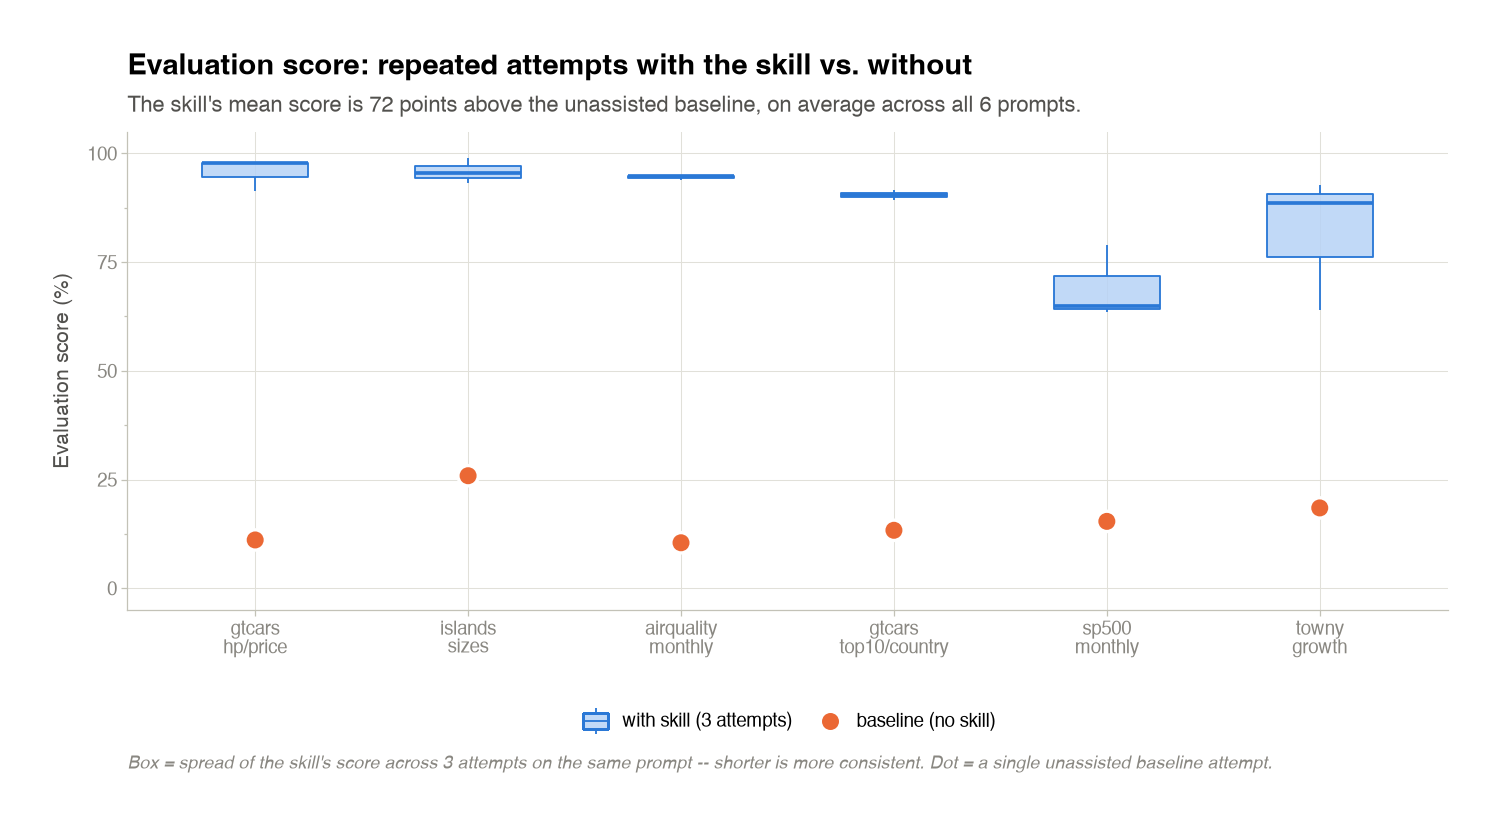
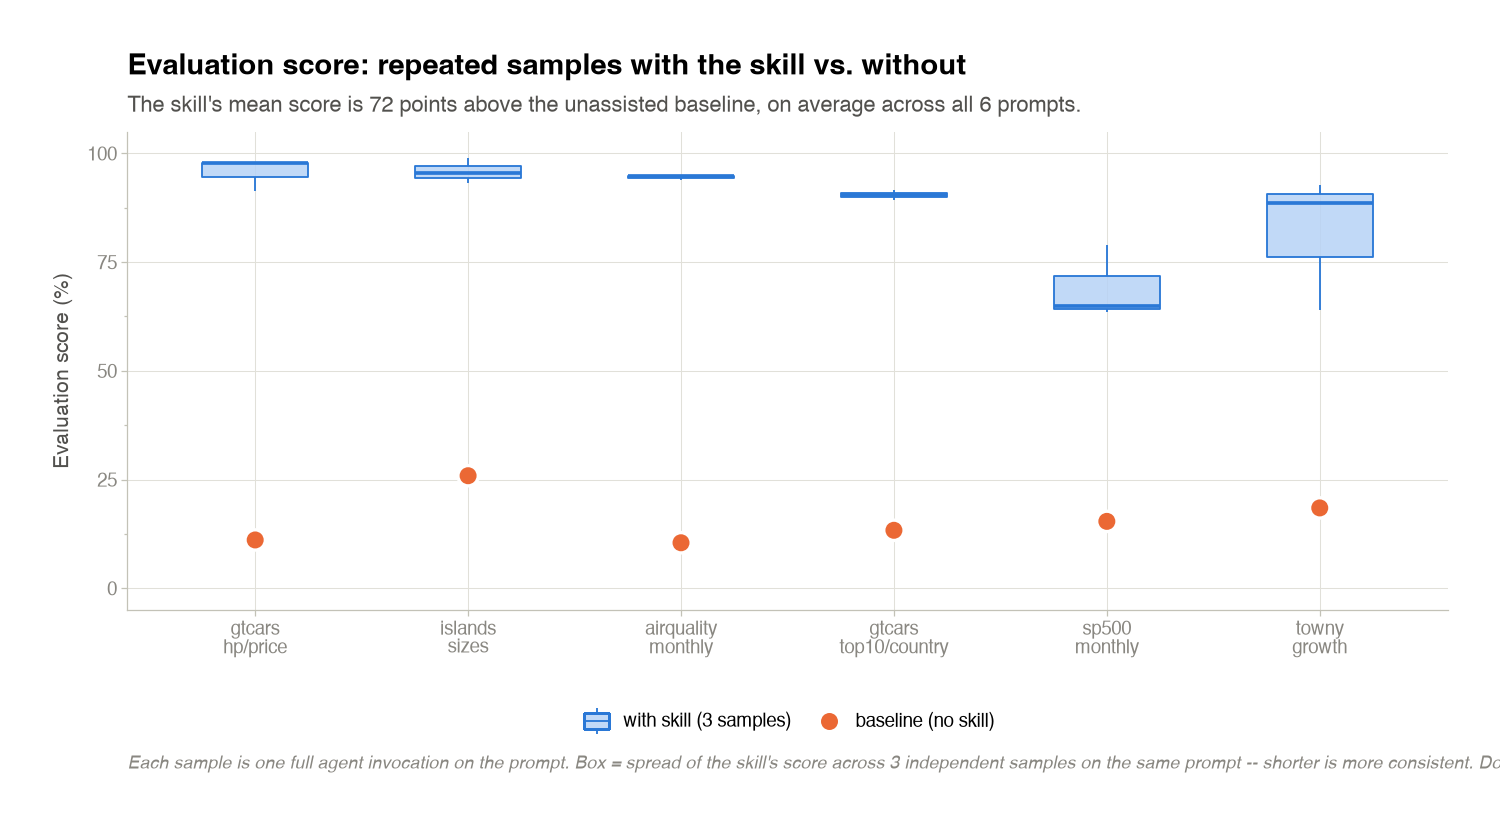
docs(assets): regenerate plots with 'samples' wording + drop stale callout
Re-runs the tracked eval-results/_plots.py (slice 6.5) against the
local eval-results-demo/{skill}/metrics.json for each of the four
skills and overwrites the 8 shipped PNGs under
docs/assets/plots/{skill}/. Renders now carry 'samples' throughout
(SKILL_LABEL, plot title, and the expanded caption); the historical-
wording callout in methodology.qmd is dropped since it no longer
applies.

Also adds scripts/regen_docs_plots.py so the regen is one command
next time _plots.py changes:

    python scripts/regen_docs_plots.py

The script pulls PROMPT_IDS + PROMPT_LABELS out of the per-skill
make_plots.py convention and calls plot_usage + plot_comparator_score
directly, so it doesn't need the raw runs/sweep tree.

diff --git a/scripts/regen_docs_plots.py b/scripts/regen_docs_plots.py
@@ -1,0 +1,70 @@
+#!/usr/bin/env python3
+"""Regenerate docs/assets/plots/{skill}/{comparator_score,usage}.png.
+
+Reads the local (gitignored) eval-results-demo/{skill}/metrics.json files and
+draws with the current eval-results/_plots.py, so the shipped renders carry
+whatever wording the tracked plot script has right now. Idempotent -- re-running
+overwrites the four skills' plots.
+
+Not part of the CI docs build; it's a one-shot to refresh the pre-rendered
+assets after a plot-code change.
+"""
+
+from __future__ import annotations
+
+import json
+import sys
+from pathlib import Path
+
+REPO_ROOT = Path(__file__).resolve().parent.parent
+DEMO = REPO_ROOT / "eval-results-demo"
+DOCS_PLOTS = REPO_ROOT / "docs" / "assets" / "plots"
+
+# Import the tracked plot module the same way make_plots.py did.
+sys.path.insert(0, str(REPO_ROOT / "eval-results"))
+import _plots as plots  # noqa: E402
+
+SKILLS = ("prose", "scripts", "creator", "house")
+PROMPT_IDS = [
+    "gtcars_hp_price",
+    "islands_sizes",
+    "airquality_monthly_summary",
+    "gtcars_top10_by_country",
+    "sp500_monthly_performance",
+    "towny_growth_trends",
+]
+PROMPT_LABELS = {
+    "gtcars_hp_price": "gtcars\nhp/price",
+    "islands_sizes": "islands\nsizes",
+    "airquality_monthly_summary": "airquality\nmonthly",
+    "gtcars_top10_by_country": "gtcars\ntop10/country",
+    "sp500_monthly_performance": "sp500\nmonthly",
+    "towny_growth_trends": "towny\ngrowth",
+}
+
+
+def main() -> int:
+    if not DEMO.exists():
+        print(f"error: {DEMO} not found -- this script needs the local demo copy",
+              file=sys.stderr)
+        return 2
+
+    for skill in SKILLS:
+        metrics_path = DEMO / skill / "metrics.json"
+        if not metrics_path.exists():
+            print(f"skip {skill}: no metrics.json at {metrics_path}")
+            continue
+        metrics = json.loads(metrics_path.read_text())
+        out_dir = DOCS_PLOTS / skill
+        out_dir.mkdir(parents=True, exist_ok=True)
+        ok_usage = plots.plot_usage(metrics, PROMPT_IDS, PROMPT_LABELS, out_dir / "usage.png")
+        ok_cmp = plots.plot_comparator_score(
+            metrics, PROMPT_IDS, PROMPT_LABELS, out_dir / "comparator_score.png"
+        )
+        print(f"{skill}: usage={'ok' if ok_usage else 'skip'}, "
+              f"comparator_score={'ok' if ok_cmp else 'skip'}")
+    return 0
+
+
+if __name__ == "__main__":
+    raise SystemExit(main())
